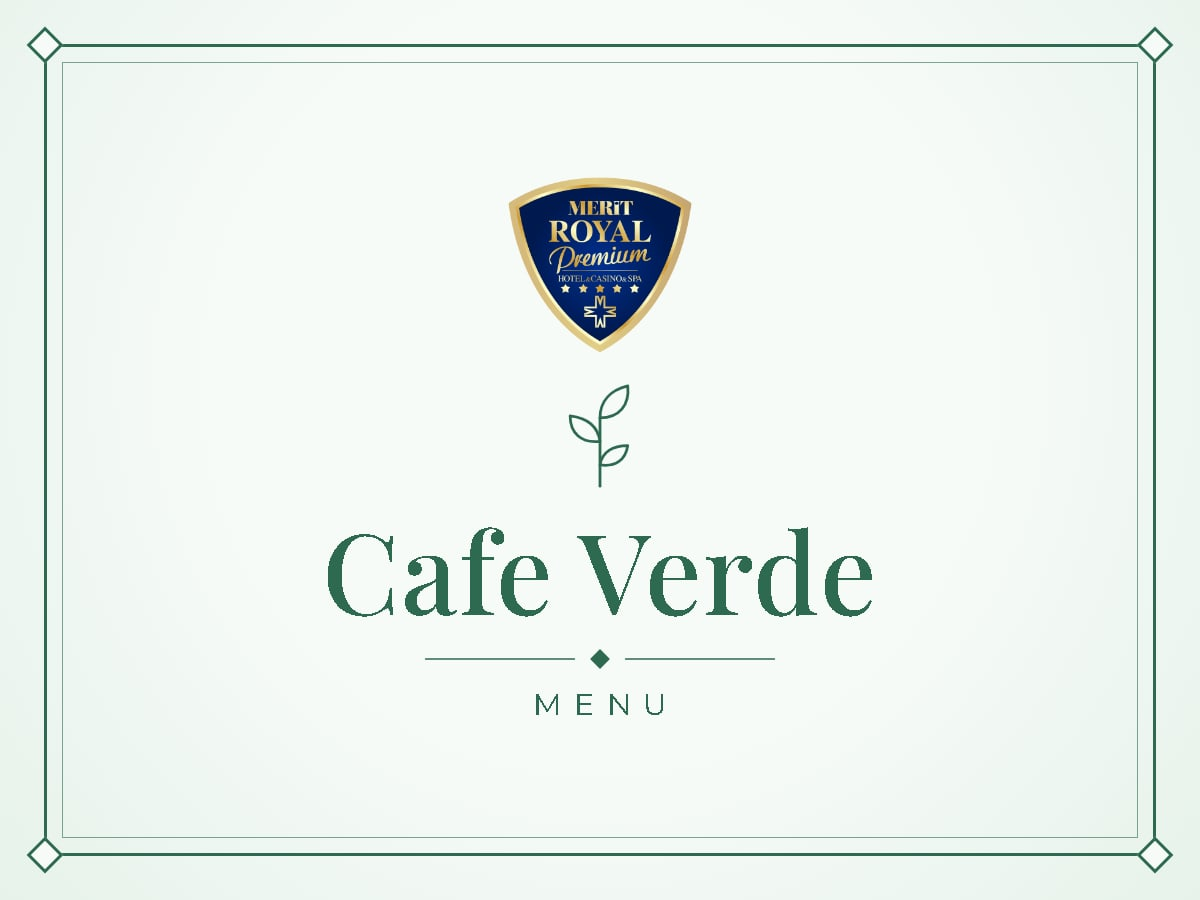
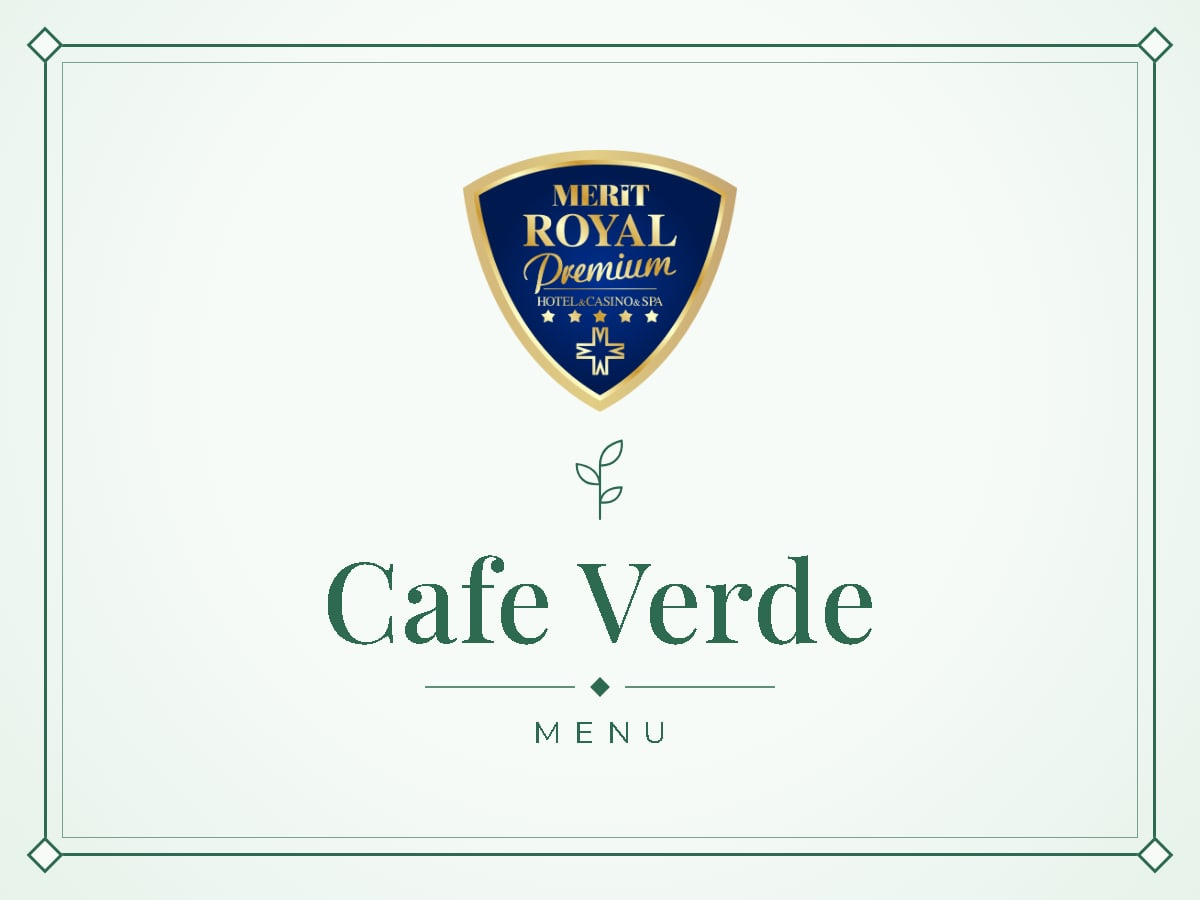
feat(menu): kapaklarda otel logosu buyutuldu
Logo 176 -> 264 px, cizgi motif 128 -> 100 px. 13 kapak gorseli yeniden uretildi.

Changed region(s): [[0.37, 0.1556, 0.6167, 0.56], [0.2467, 0.5911, 0.74, 0.84], [0.6475, 0.5911, 0.6783, 0.6222]]

diff --git a/merit/scripts/generate-menu-covers.ts b/merit/scripts/generate-menu-covers.ts
@@ -95,8 +95,8 @@ body { width: ${WIDTH}px; height: ${HEIGHT}px; background: radial-gradient(circl
 .corner.tl { left: 32px; top: 32px; } .corner.tr { right: 32px; top: 32px; }
 .corner.bl { left: 32px; bottom: 32px; } .corner.br { right: 32px; bottom: 32px; }
 main { position: absolute; inset: 62px; display: flex; flex-direction: column; align-items: center; justify-content: center; text-align: center; padding: 14px 60px; }
-.logo { height: 176px; margin-bottom: 18px; }
-.motif { width: 128px; height: 128px; margin-bottom: 8px; fill: none; stroke: ${spec.accent}; stroke-width: 2.6; stroke-linecap: round; stroke-linejoin: round; }
+.logo { height: 264px; margin-bottom: 16px; }
+.motif { width: 100px; height: 100px; margin-bottom: 6px; fill: none; stroke: ${spec.accent}; stroke-width: 2.6; stroke-linecap: round; stroke-linejoin: round; }
 h1 { font-family: "${font.family}", serif; ${font.css} line-height: 1.1; white-space: nowrap; }
 .rule { display: flex; align-items: center; gap: 18px; margin: 22px 0 20px; }
 .rule i { display: block; width: 150px; height: 2px; background: ${spec.accent}; opacity: 0.75; }
